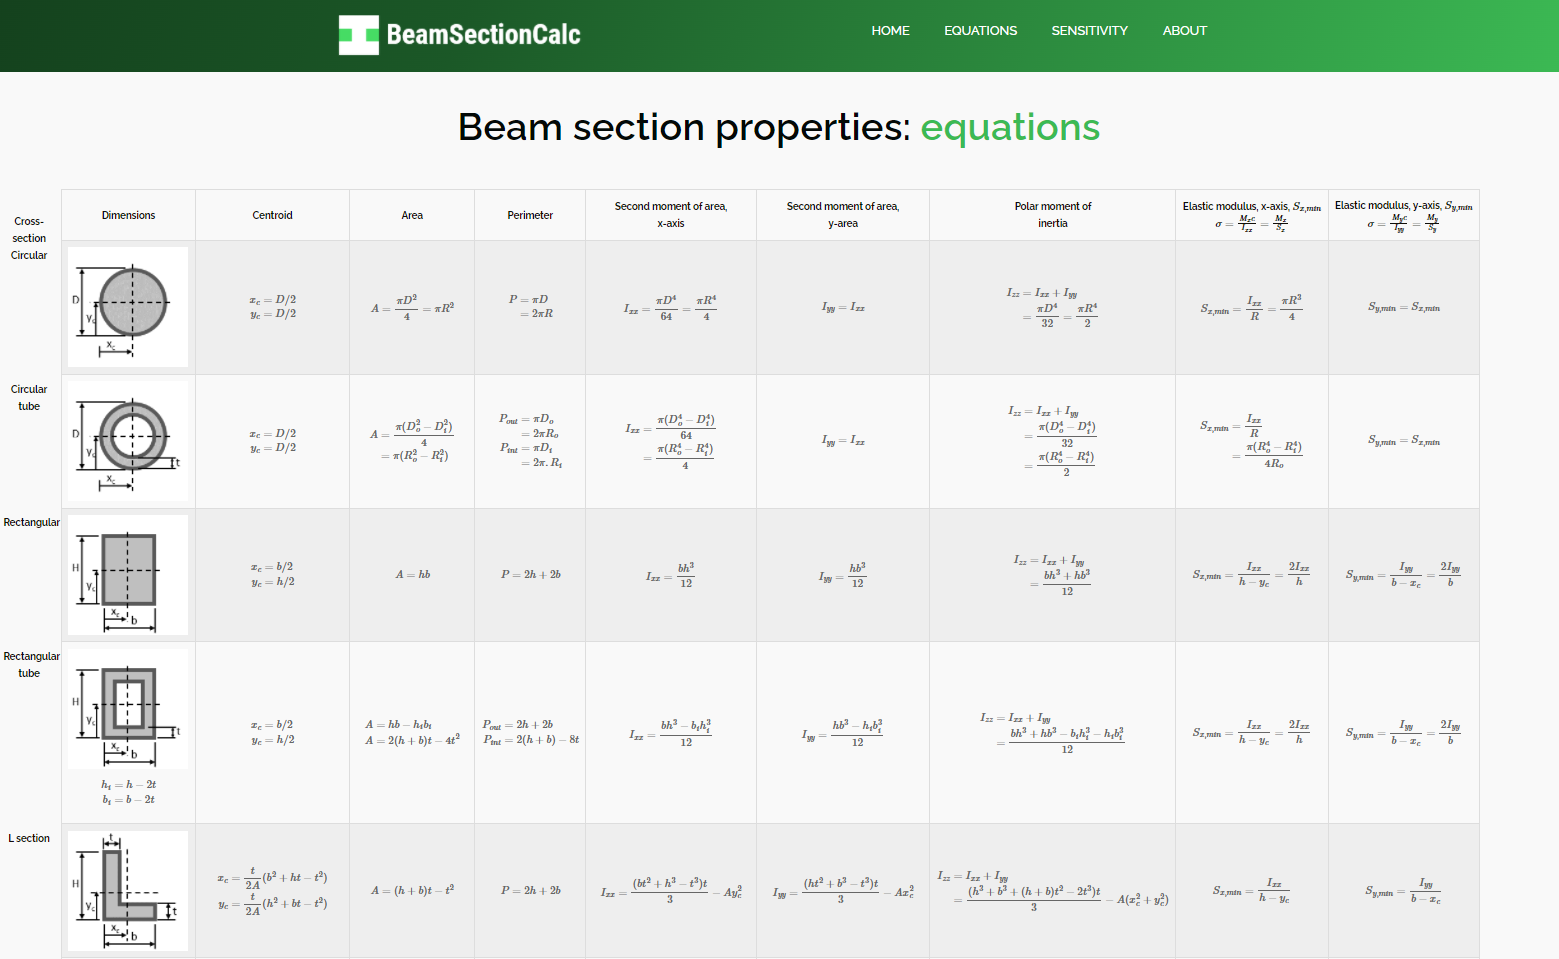
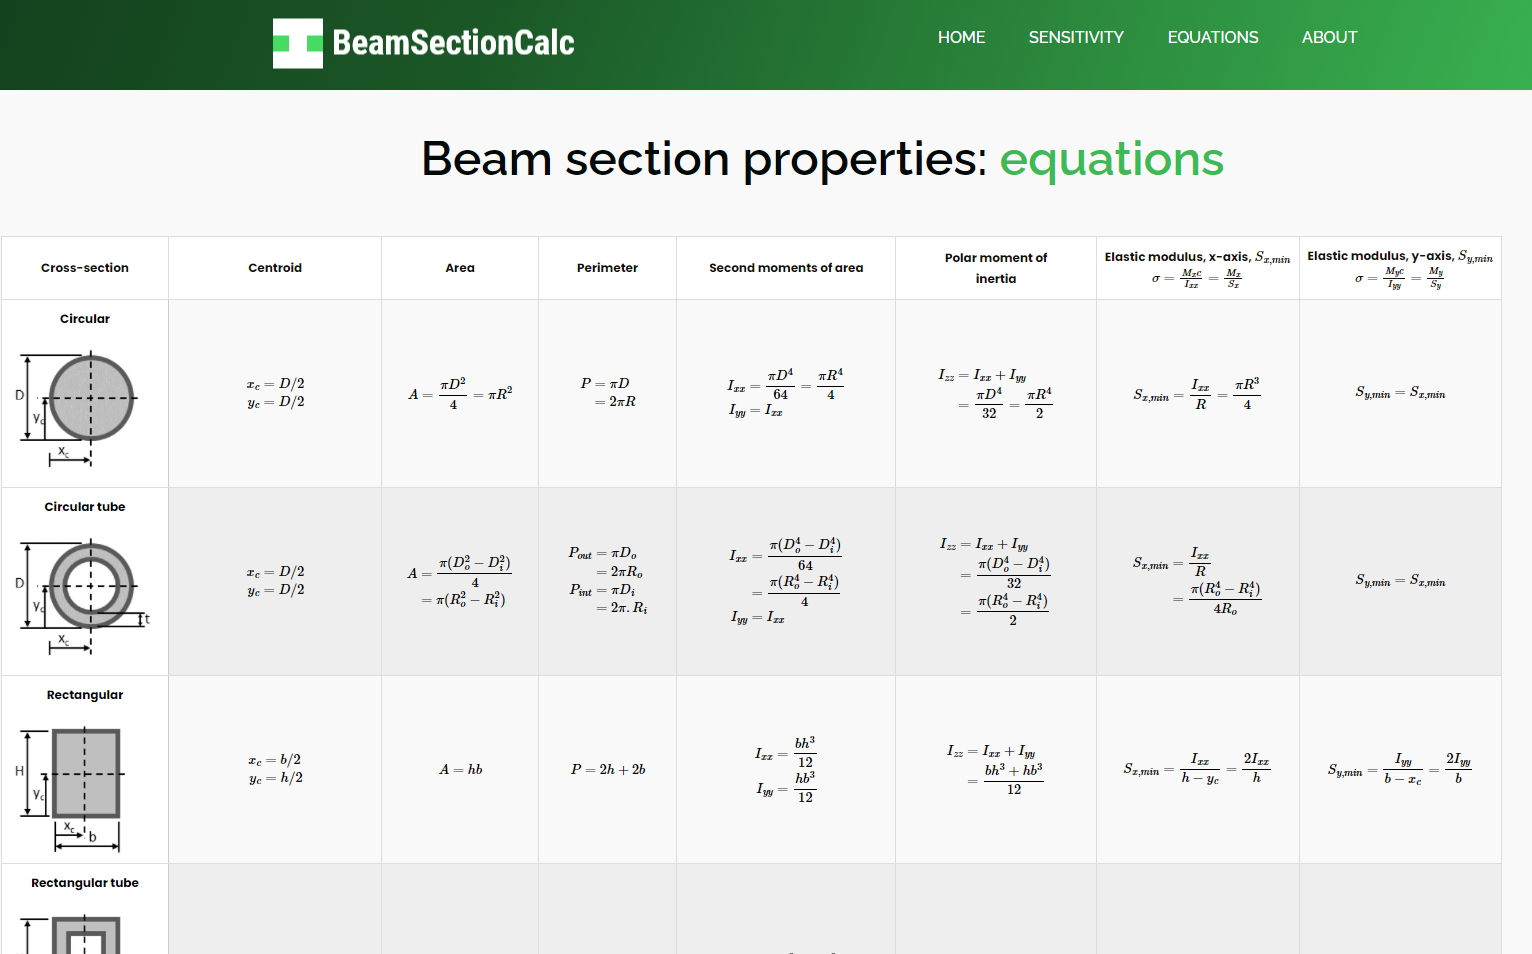
about

diff --git a/html/table.html b/html/table.html
@@ -41,7 +41,7 @@
                   <div class="col-xl-3 col-lg-3 col-md-3 col-sm-3 col logo_section">
                      <div class="full">
                         <div class="center-desk">
-                           <div class="logo"><a href="index.html"><img src="../images/logo1.png"></a>
+                           <div class="logo"><a href="../index.html"><img src="../images/logo1.png"></a>
                            </div>
                         </div>
                      </div>
@@ -78,143 +78,144 @@
     </div>
     <div class="choose_section_2">
 		<div class="outer">
-			<div class="inner">
-				<!-- <p class="forms_text">Formulas</p> -->
-				<table style="font-size: 12px;">
+			<!-- <p class="forms_text">Formulas</p> -->
+			<table>
+				<thead>
 					<tr>
-						<th class=fix><br/>Cross-section</th>
-						<th>Dimensions</th>
+						<th>Cross-section</th>
 						<th>Centroid</th>
 						<th>Area</th>
 						<th>Perimeter</th>
-						<th>Second moment of area,<br/> x-axis</th>
-						<th>Second moment of area,<br/> y-area</th>
+						<th>Second moments of area</th>
 						<th>Polar moment of<br/> inertia</th>
 						<th>Elastic modulus, x-axis, \(S_{x,min}\)<br/>\(\sigma=\frac{M_{x}c}{I_{xx}}=\frac{M_{x}}{S_{x}}\)</th>
 						<th>Elastic modulus, y-axis, \(S_{y,min}\)<br/>\(\sigma=\frac{M_{y}c}{I_{yy}}=\frac{M_{y}}{S_{y}}\)</th>
 					</tr>
+				</thead>
+				<tbody>
 					<tr>
-						<td class=fix style="font-weight: bold;">Circular</td>
-						<td><img name="tooltip-image" src="../images/dimensions/sections/Slide1.png" style="width: 150px"></td>
+						<th style="font-weight: bold;">Circular<br/>
+						<img name="tooltip-image" src="../images/dimensions/sections/Slide1.png" style="width: 150px"></th>
 						<td>$$ {\begin{align}x_{c} &= D/2 \\y_{c} &= D/2\end{align}} $$</td>
 						<td>$$ {A = \frac{\pi D^2}{4} = \pi R^2} $$</td>
 						<td>$$ {\begin{align}P &= \pi D \\&= 2 \pi R\end{align}} $$</td>
-						<td>$$ {I_{xx}=\frac{\pi D^4}{64}=\frac{\pi R^4}{4}} $$</td>
-						<td>$$ {I_{yy}=I_{xx}} $$</td>
+						<td>$$ {\begin{align} I_{xx}&=\frac{\pi D^4}{64}=\frac{\pi R^4}{4} \\
+								I_{yy}&=I_{xx} \end{align}} $$</td>
 						<td>$$ {\begin{align}I_{zz} &= I_{xx} + I_{yy} \\ &= \frac{\pi D^4}{32}=\frac{\pi R^4}{2}\end{align}} $$</td>
 						<td>$$ {S_{x,min}=\frac{I_{xx}}{R}=\frac{\pi R^3}{4}} $$</td>
 						<td>$$ {S_{y,min}=S_{x,min}} $$</td>
 					</tr>
-						<tr>
-						<td class=fix style="font-weight: bold;">Circular tube</td>
-						<td><img name="tooltip-image" src="../images/dimensions/sections/Slide2.png" style="width: 150px"></td>
+					<tr>
+						<th style="font-weight: bold;">Circular tube<br/>
+						<img name="tooltip-image" src="../images/dimensions/sections/Slide2.png" style="width: 150px"></th>
 						<td>$$ {\begin{align}x_{c} &= D/2 \\y_{c} &= D/2\end{align}} $$</td>
 						<td>$$ {\begin{align}A &= \frac{\pi (D_{o}^2-D_{i}^2)}{4} \\&= \pi (R_{o}^2-R_{i}^2)\end{align}} $$</td>
 						<td>$$ {\begin{align}P_{out} &= \pi D_{o} \\&= 2 \pi R_{o}\\P_{int} &= \pi D_{i} \\&= 2 \pi.R_{i}\end{align}} $$</td>
-						<td>$$ {\begin{align}I_{xx}&=\frac{\pi (D_{o}^4-D_{i}^4)}{64}\\&=\frac{\pi (R_{o}^4-R_{i}^4)}{4}\end{align}} $$</td>
-						<td>$$ {I_{yy}=I_{xx}} $$</td>
+						<td>$$ {\begin{align}I_{xx}&=\frac{\pi (D_{o}^4-D_{i}^4)}{64}\\&=\frac{\pi (R_{o}^4-R_{i}^4)}{4} \\ I_{yy}&=I_{xx} \end{align}} $$</td>
 						<td>$$ {\begin{align}I_{zz} &= I_{xx} + I_{yy} \\ &= \frac{\pi (D_{o}^4-D_{i}^4)}{32}\\&=\frac{\pi (R_{o}^4-R_{i}^4)}{2}\end{align}} $$</td>
 						<td>$$ {\begin{align}S_{x,min}&=\frac{I_{xx}}{R}\\&=\frac{\pi (R_{o}^4-R_{i}^4)}{4R_{o}}\end{align}} $$</td>
 						<td>$$ {S_{y,min}=S_{x,min}} $$</td>
 					</tr>
 					<tr>
-						<td class=fix style="font-weight: bold;">Rectangular</td>
-						<td><img name="tooltip-image" src="../images/dimensions/sections/Slide3.png" style="width: 150px"></td>
+						<th style="font-weight: bold;">Rectangular<br/>
+						<img name="tooltip-image" src="../images/dimensions/sections/Slide3.png" style="width: 150px"></th>
 						<td>$$ {\begin{align}x_{c} &= b/2 \\y_{c} &= h/2\end{align}} $$</td>
 						<td>$$ {A = h b} $$</td>
 						<td>$$ {P = 2 h + 2 b} $$</td>
-						<td>$$ {I_{xx}=\frac{bh^3}{12}} $$</td>
-						<td>$$ {I_{yy}=\frac{hb^3}{12}} $$</td>
+						<td>$$ {\begin{align} I_{xx}&=\frac{bh^3}{12} \\ 
+								I_{yy}&=\frac{hb^3}{12} \end{align}} $$</td>
 						<td>$$ {\begin{align}I_{zz} &= I_{xx} + I_{yy} \\ &= \frac{bh^3+hb^3}{12}\end{align}} $$</td>
 						<td>$$ {S_{x,min}=\frac{I_{xx}}{h - y_{c}}=\frac{2 I_{xx}}{h}} $$</td>
 						<td>$$ {S_{y,min}=\frac{I_{yy}}{b - x_{c}}=\frac{2 I_{yy}}{b}} $$</td>
 					</tr>
 					<tr>
-						<td class=fix style="font-weight: bold;">Rectangular tube</td>
-						<td><img name="tooltip-image" src="../images/dimensions/sections/Slide4.png" style="width: 150px"><br/>$$ {\begin{align}h_{i} &= h-2t\\b_{i}&=b-2t\end{align}} $$</td>
+						<th style="font-weight: bold;">Rectangular tube<br/>
+						<img name="tooltip-image" src="../images/dimensions/sections/Slide4.png" style="width: 150px"><br/>$$ {\begin{align}h_{i} &= h-2t\\b_{i}&=b-2t\end{align}} $$</th>
 						<td>$$ {\begin{align}x_{c} &= b/2 \\y_{c} &= h/2\end{align}} $$</td>
 						<td>$$ {\begin{align}A &= hb - h_{i}b_{i}\\A &= 2(h+b)t - 4t^2\end{align}} $$</td>
 						<td>$$ {\begin{align}P_{out} &= 2 h + 2 b \\P_{int} &= 2(h+b)-8t\end{align}} $$</td>
-						<td>$$ {I_{xx}=\frac{bh^3-b_{i}h_{i}^3}{12}} $$</td>
-						<td>$$ {I_{yy}=\frac{hb^3-h_{i}b_{i}^3}{12}} $$</td>
+						<td>$$ {\begin{align} I_{xx}&=\frac{bh^3-b_{i}h_{i}^3}{12} \\
+								I_{yy}&=\frac{hb^3-h_{i}b_{i}^3}{12} \end{align}} $$</td>
 						<td>$$ {\begin{align}I_{zz} &= I_{xx} + I_{yy} \\ &=\frac{bh^3+hb^3-b_{i}h_{i}^3-h_{i}b_{i}^3}{12}\end{align}} $$</td>
 						<td>$$ {S_{x,min}=\frac{I_{xx}}{h - y_{c}}=\frac{2 I_{xx}}{h}} $$</td>
 						<td>$$ {S_{y,min}=\frac{I_{yy}}{b - x_{c}}=\frac{2 I_{yy}}{b}} $$</td>
 					</tr>
 					<tr>
-						<td class=fix style="font-weight: bold;">L section</td>
-						<td><img name="tooltip-image" src="../images/dimensions/sections/Slide5.png" style="width: 150px"></td>
-						<td>$$ {\begin{align}x_{c} &= \frac{t}{2A}(b^2+ht-t^2) \\y_{c} &= \frac{t}{2A}(h^2+bt-t^2)\end{align}} $$</td>
+						<th style="font-weight: bold;">L section<br/>
+						<img name="tooltip-image" src="../images/dimensions/sections/Slide5.png" style="width: 150px"></th>
+						<td>$$ {\begin{align}x_{c} &= \frac{t}{2A}(b^2+ht-t^2) \\y_{c} &= \frac{t}{2A}(h^2+bt-t^2) \end{align}} $$</td>
 						<td>$$ {A=(h+b)t-t^2} $$</td>
 						<td>$$ {P = 2 h + 2 b} $$</td>
-						<td>$$ {I_{xx}=\frac{(bt^2+h^3-t^3)t}{3}-A y_{c}^2} $$</td>
-						<td>$$ {I_{yy}=\frac{(ht^2+b^3-t^3)t}{3}-A x_{c}^2} $$</td>
-						<td>$$ {\begin{align}I_{zz} &= I_{xx} + I_{yy} \\ &=\frac{(h^3+b^3+(h+b)t^2-2 t^3)t}{3}-A(x_{c}^2+y_{c}^2)\end{align}} $$</td>
+						<td>$$ {\begin{align} I_{xx}&=\frac{(bt^2+h^3-t^3)t}{3}-A y_{c}^2 \\
+								I_{yy}&=\frac{(ht^2+b^3-t^3)t}{3}-A x_{c}^2 \end{align}} $$</td>
+						<td>$$ {I_{zz} = I_{xx} + I_{yy}} $$</td>
+						<!--<td>$$ {\begin{align}I_{zz} &= I_{xx} + I_{yy} \\ &=\frac{(h^3+b^3+(h+b)t^2-2 t^3)t}{3}-A(x_{c}^2+y_{c}^2)\end{align}} $$</td>-->
 						<td>$$ {S_{x,min}=\frac{I_{xx}}{h - y_{c}}} $$</td>
 						<td>$$ {S_{y,min}=\frac{I_{yy}}{b - x_{c}}} $$</td>
 					</tr>
 					<tr>
-						<td class=fix style="font-weight: bold;">C channel</td>
-						<td><img name="tooltip-image" src="../images/dimensions/sections/Slide6.png" style="width: 150px"></td>
+						<th style="font-weight: bold;">C channel<br/>
+						<img name="tooltip-image" src="../images/dimensions/sections/Slide6.png" style="width: 150px"></th>
 						<td>$$ {\begin{align}x_{c} &= \frac{1}{A}(\frac{t_{w}^2}{2}(h-2 t_f)+t_f b^2 ) \\y_{c} &= h/2\end{align}} $$</td>
 						<td>$$ {A = 2 b t_f + (h-2 t_f)t_w} $$</td>
 						<td>$$ {P = 4b+2h-2t_w} $$</td>
-						<td>$$ {I_{xx}=\frac{bh^3}{12} - \frac{(b-t_w)(h-2t_f)^3}{12}} $$</td>
-						<td>$$ {I_{yy}=\frac{(h-2t_f)t_{w}^3+2t_{f}b^3}{3} - A x_{c}^2} $$</td>
+						<td>$$ {\begin{align} I_{xx}&=\frac{bh^3}{12} - \frac{(b-t_w)(h-2t_f)^3}{12} \\ 
+								I_{yy}&=\frac{(h-2t_f)t_{w}^3+2t_{f}b^3}{3} - A x_{c}^2 \end{align}} $$</td>
 						<td>$$ {I_{zz} = I_{xx} + I_{yy}} $$</td>
 						<td>$$ {S_{x,min}=\frac{I_{xx}}{h - y_{c}}=\frac{2 I_{xx}}{h}} $$</td>
 						<td>$$ {S_{y,min}=\frac{I_{yy}}{b - x_{c}} } $$</td>
 					</tr>
 					<tr>
-						<td class=fix style="font-weight: bold;">U channel</td>
-						<td><img name="tooltip-image" src="../images/dimensions/sections/Slide7.png" style="width: 150px"></td>
-						<td>$$ {\begin{align}x_{c} &= \frac{1}{A}(\frac{t_{w}^2}{2}(b-2 t_f)+t_f h^2 ) \\y_{c} &= b/2\end{align}} $$</td>
+						<th style="font-weight: bold;">U channel<br/>
+						<img name="tooltip-image" src="../images/dimensions/sections/Slide7.png" style="width: 150px"></th>
+						<td>$$ {\begin{align}x_{c} &= b/2 \\
+								y_{c} &= \frac{1}{A}(\frac{t_{w}^2}{2}(b-2 t_f)+t_f h^2 ) \end{align}} $$</td>
 						<td>$$ {A = 2 h t_f + (b-2 t_f)t_w} $$</td>
 						<td>$$ {P = 4h+2b-2t_w} $$</td>
-						<td>$$ {I_{xx}=\frac{bh^3}{12} - \frac{(b-t_w)(h-2t_f)^3}{12}} $$</td>
-						<td>$$ {I_{yy}=\frac{(h-2t_f)t_{w}^3+2t_{f}b^3}{3} - A x_{c}^2} $$</td>
+						<td>$$ {\begin{align} I_{xx}&=\frac{bh^3}{12} - \frac{(b-t_w)(h-2t_f)^3}{12} \\ 
+								I_{yy}&=\frac{(h-2t_f)t_{w}^3+2t_{f}b^3}{3} - A x_{c}^2 \end{align}} $$</td>
 						<td>$$ {I_{zz} = I_{xx} + I_{yy}} $$</td>
 						<td>$$ {S_{x,min}=\frac{I_{xx}}{h - y_{c}}=\frac{2 I_{xx}}{h}} $$</td>
 						<td>$$ {S_{y,min}=\frac{I_{yy}}{b - x_{c}} } $$</td>
 					</tr>
 					<tr>
-						<td class=fix style="font-weight: bold;">I section</td>
-						<td><img name="tooltip-image" src="../images/dimensions/sections/Slide8.png" style="width: 150px"></td>
+						<th style="font-weight: bold;">I section<br/>
+						<img name="tooltip-image" src="../images/dimensions/sections/Slide8.png" style="width: 150px"></th>
 						<td>$$ {\begin{align}x_{c} &= b/2 \\y_{c} &= h/2\end{align}} $$</td>
 						<td>$$ {A = 2 b t_f + (h-2 t_f)t_w} $$</td>
 						<td>$$ {P = 4b+2h-2t_w} $$</td>
-						<td>$$ {I_{xx}=\frac{bh^3}{12} - \frac{(b-t_w)(h-2t_f)^3}{12}} $$</td>
-						<td>$$ {I_{yy}=\frac{2 t_{f} b^3 + (h-2 t_{f}) t_{w}^3}{12}} $$</td>
+						<td>$$ {\begin{align}I_{xx}&=\frac{bh^3}{12} - \frac{(b-t_w)(h-2t_f)^3}{12} \\
+								I_{yy}&=\frac{2 t_{f} b^3 + (h-2 t_{f}) t_{w}^3}{12}\end{align}} $$</td>
 						<td>$$ {I_{zz} = I_{xx} + I_{yy}} $$</td>
 						<td>$$ {S_{x,min}=\frac{I_{xx}}{h - y_{c}}=\frac{2 I_{xx}}{h}} $$</td>
 						<td>$$ {S_{y,min}=\frac{I_{yy}}{b - x_{c}}=\frac{2 I_{yy}}{b} } $$</td>
 					</tr>
 					<tr>
-						<td class=fix style="font-weight: bold;">H section</td>
-						<td><img name="tooltip-image" src="../images/dimensions/sections/Slide9.png" style="width: 150px"></td>
+						<th style="font-weight: bold;">H section<br/>
+						<img name="tooltip-image" src="../images/dimensions/sections/Slide9.png" style="width: 150px"></th>
 						<td>$$ {\begin{align}x_{c} &= b/2 \\y_{c} &= h/2\end{align}} $$</td>
 						<td>$$ {A = 2 h t_f + (b-2 t_f)t_w} $$</td>
 						<td>$$ {P = 4b+2h-2t_w} $$</td>
-						<td>$$ {I_{xx}=\frac{2 t_{f} b^3 + (b-2 t_{f}) t_{w}^3}{12}} $$</td>
-						<td>$$ {I_{yy}=\frac{hb^3}{12} - \frac{(h-t_w)(b-2t_f)^3}{12}} $$</td>
+						<td>$$ {\begin{align} I_{xx}&=\frac{2 t_{f} b^3 + (b-2 t_{f}) t_{w}^3}{12} \\
+								I_{yy}&=\frac{hb^3}{12} - \frac{(h-t_w)(b-2t_f)^3}{12} \end{align}} $$</td>
 						<td>$$ {I_{zz} = I_{xx} + I_{yy}} $$</td>
 						<td>$$ {S_{x,min}=\frac{I_{xx}}{h - y_{c}}=\frac{2 I_{xx}}{h}} $$</td>
 						<td>$$ {S_{y,min}=\frac{I_{yy}}{b - x_{c}}=\frac{2 I_{yy}}{b}} $$</td>
 					</tr>
 					<tr>
-						<td class=fix style="font-weight: bold;">T section</td>
-						<td><img name="tooltip-image" src="../images/dimensions/sections/Slide10.png" style="width: 150px"></td>
-						<td>$$ {\begin{align}x_{c} &= b/2 \\y_{c} &= h/2\end{align}} $$</td>
-						<td>$$ {A = 2 h t_f + (b-2 t_f)t_w} $$</td>
-						<td>$$ {P = 4b+2h-2t_w} $$</td>
-						<td>$$ {I_{xx}=\frac{2 t_{f} b^3 + (b-2 t_{f}) t_{w}^3}{12}} $$</td>
-						<td>$$ {I_{yy}=\frac{hb^3}{12} - \frac{(h-t_w)(b-2t_f)^3}{12}} $$</td>
+						<th style="font-weight: bold;">T section<br/>
+						<img name="tooltip-image" src="../images/dimensions/sections/Slide10.png" style="width: 150px"></th>
+						<td>$$ {\begin{align}x_{c} &= b/2 \\y_{c} &= h-\frac{1}{2A} (t_w h^2+(b-t_w)t_f^2) \end{align}} $$</td>
+						<td>$$ {A = 2 b t_f + (h-t_f)t_w} $$</td>
+						<td>$$ {P = 2b+2h} $$</td>
+						<td>$$ {\begin{align} I_{xx}&=\frac{t_w b^3 + (b-2 t_{w}) t_{f}^3}{3}-A y_c^2 \\
+								I_{yy}&=\frac{(h-t_f)t_w^3 + t_f b^3}{12} \end{align}} $$</td>
 						<td>$$ {I_{zz} = I_{xx} + I_{yy}} $$</td>
-						<td>$$ {S_{x,min}=\frac{I_{xx}}{h - y_{c}}=\frac{2 I_{xx}}{h}} $$</td>
+						<td>$$ {S_{x,min}=\frac{I_{xx}}{h - y_{c}}} $$</td>
 						<td>$$ {S_{y,min}=\frac{I_{yy}}{b - x_{c}}=\frac{2 I_{yy}}{b}} $$</td>
 					</tr>
-				</table>
-			</div>
+				</tbody>
+			</table>
 		</div>
     </div>
 

diff --git a/html/about.html b/html/about.html
@@ -42,7 +42,7 @@
                   <div class="col-xl-3 col-lg-3 col-md-3 col-sm-3 col logo_section">
                      <div class="full">
                         <div class="center-desk">
-                           <div class="logo"><a href="index.html"><img src="../images/logo1.png"></a>
+                           <div class="logo"><a href="../index.html"><img src="../images/logo1.png"></a>
                            </div>
                         </div>
                      </div>
@@ -82,14 +82,18 @@
 			<h2 class="special_text" style="color: #fff" >About BeamSectionCalc</h2>
 			<p class="donec_text" style="color: #fff" >
 			&emsp;&emsp; BeamSectionCalc is a free online tool developed from engineers to engineers - or whomever else this may be useful! <br/>
-			&emsp;&emsp; Here you can find a fast, clear and reliable platform to not only calculate a variety of cross-section properties, but also to compare different designs side-to-side and check which design changes will be the most assertive for your projects! Our goal is to help you to make the best decisions always.</p>
+			&emsp;&emsp; Here you can find a fast, clear and reliable platform to not only calculate a variety of cross-section properties, but also to compare different designs side-to-side and check which design change will be the most assertive for your projects! Our goal is to help you to make the best decisions always.</p>
 		</div>
     </div>
     <div class="choose_section">
     	<div class="container">
     		<div class="col-sm-12">
-    			<h1 class="choose_text">Calculate and compare cross-sections </h1>
-    			<p class="lorem_text">Compare different designs!</p>
+    			<h1 class="choose_text"><span class="color">Calculate and compare cross-sections </span></h1>
+    			<p class="lorem_text">Compare different designs and choose the best solution!<br/>
+					<strong>Start by selecting one or more cross-sections to be computed</strong> - for instance, if you want to compare two or more options for your project. <br/> <br/>
+					<strong>In the plots, you can verify which option is lighter, stiffer, or will show lower stresses under the same loads</strong> (assuming simple traction load or simple bending moment on each axis, and same beam lengths and homogeneous material).  <br/> <br/>
+					<strong>You can change the dimensions or section types at anytime and all the results will be updated instantly!</strong> You may also choose which section is to be used as reference in the plots!
+				</p>
 				<div  class="power-image">
 					<img  src="../images/about/help_main.png">
 				</div>
@@ -99,8 +103,14 @@
     <div class="choose_section">
     	<div class="container">
     		<div class="col-sm-12">
-    			<h1 class="choose_text">Sensitivity Analysis</h1>
-    			<p class="lorem_text">Check how each dimension affects the beam properties!</p>
+    			<h1 class="choose_text"><span class="color">Sensitivity Analysis</span></h1>
+    			<p class="lorem_text">Visualize how each dimension affects the beam properties and adjust your design efficiently!<br/><br/>
+					You may ask yourself: <strong>which dimension should be modified to lower the stresses in an efficient way?</strong> <br/> or <br/>
+					<strong>which dimension can I change to reduce mass, but with minimal impact in the bending stiffness?</strong> <br/> <br/>
+					<strong>This page can help you!</strong><br/><br/>
+					Start by selecting one cross-sections to be computed. <br/>
+					In the plots, you can verify which dimension has the higher (or lower) effect on the beam mass, stiffness and stresses! <br/>
+					*again, assuming simple traction load or simple bending moment on each axis, and same beam lengths and homogeneous material.</p>
 				<div  class="power-image">
 					<img  src="../images/about/help_sensitivity.png">
 				</div>
@@ -110,8 +120,9 @@
     <div class="choose_section">
     	<div class="container">
     		<div class="col-sm-12">
-    			<h1 class="choose_text">Complete set of equations</h1>
-    			<p class="lorem_text">All the equations are available to help your insights!</p>
+    			<h1 class="choose_text"><span class="color">Complete set of equations</span></h1>
+    			<p class="lorem_text">All the equations are available to help your insights!
+				</p>
 				<div  class="power-image">
 					<img  src="../images/about/help_equations.png">
 				</div>

diff --git a/css/style.css b/css/style.css
@@ -328,7 +328,7 @@ button.btn.btn-primary, button.btn.btn-primary:hover, button.btn.btn-primary:foc
     border: 2px solid #298039;
 }
 
-.power, .power-image {
+.power {
 	width: 100%;
 	float: left;
 	background-color: #ffffff;
@@ -337,12 +337,13 @@ button.btn.btn-primary, button.btn.btn-primary:hover, button.btn.btn-primary:foc
     box-shadow: 0px 0px 8px 0px;
 }
 
+
 .power-image img {
 	width: 100%;
 	float: left;
+	padding: 0px;
 	background-color: #ffffff;
 	border-radius: 15px;
-	/*padding: 20px;*/
     box-shadow: 0px 0px 8px 0px;
 }
 
@@ -470,7 +471,7 @@ button.btn.btn-primary, button.btn.btn-primary:hover, button.btn.btn-primary:foc
 	margin-top: 70px; 
 	margin-bottom: 30px;
 	position: relative;
-	clip-path: polygon(0 calc(5vw), 100% 0, 100% calc(100% - 5vw), 0 100%);
+	clip-path: polygon(0 0, 100% calc(5vw),  100%  100% , 0 calc(100% - 5vw));
  }
 
 
@@ -843,55 +844,56 @@ input:checked + .slider:before {
   float: left;
 }
 
-}	
+.outer {
+  margin-right: 5px;
+  margin-left: 5px;
+  overflow: scroll;
+  position: relative;	
+  max-height: 140vw;
+}
 
 table {
   font-family: 'Poppins', sans-serif;
+  position: relative;
   border-collapse: collapse;
   color: #000;
-  width: 100%;
-  *margin-left: -80px;
-  table-layout: fixed;
   vertical-align: middle;
-
+  font-size: 12px;
 }
+
+
 td, th {
   text-align: center;
   padding: 8px;
   border: 1px solid #ddd;
+  /*white-space: wrap;*/
 }
 
-th {
+thead th {
+  position: -webkit-sticky; /* for Safari */
+  position: sticky;
+  top: 0;
   color: #110f0a;
+  background: #FFF;
+  z-index: 9999;
+}
+
+thead th:first-child {
+  left: 0;
+}
+
+tbody th {
+  position: -webkit-sticky; /* for Safari */
+  position: sticky;
+  left: 0;
+  background: #FFF;
+  border-right: 1px solid #CCC;
+  z-index: 999;
 }
 
 tr:nth-child(even) {
   background-color: #eeeeee;
-  }
-
-.fix {
-  position: absolute;
-  *position: relative;
-  margin-left: -80px;
-  width: 80px;
-  vertical-align: middle;
-  border: none;
-  color: #110f0a;
 }
-
-.outer{
-  position: relative;
-  margin-right: 20px;
-  margin-left: 80px;
-}
-
-.inner{
-  overflow-x: scroll;
-  overflow-y: visible;
-  width: 100%;
-  margin-left: 10px;
-}
-
 
 .chart {
   text-align: center;

diff --git a/html/sensitivity.html b/html/sensitivity.html
@@ -42,7 +42,7 @@
                   <div class="col-xl-3 col-lg-3 col-md-3 col-sm-3 col logo_section">
                      <div class="full">
                         <div class="center-desk">
-                           <div class="logo"><a href="index.html"><img src="../images/logo1.png"></a>
+                           <div class="logo"><a href="../index.html"><img src="../images/logo1.png"></a>
                            </div>
                         </div>
                      </div>
